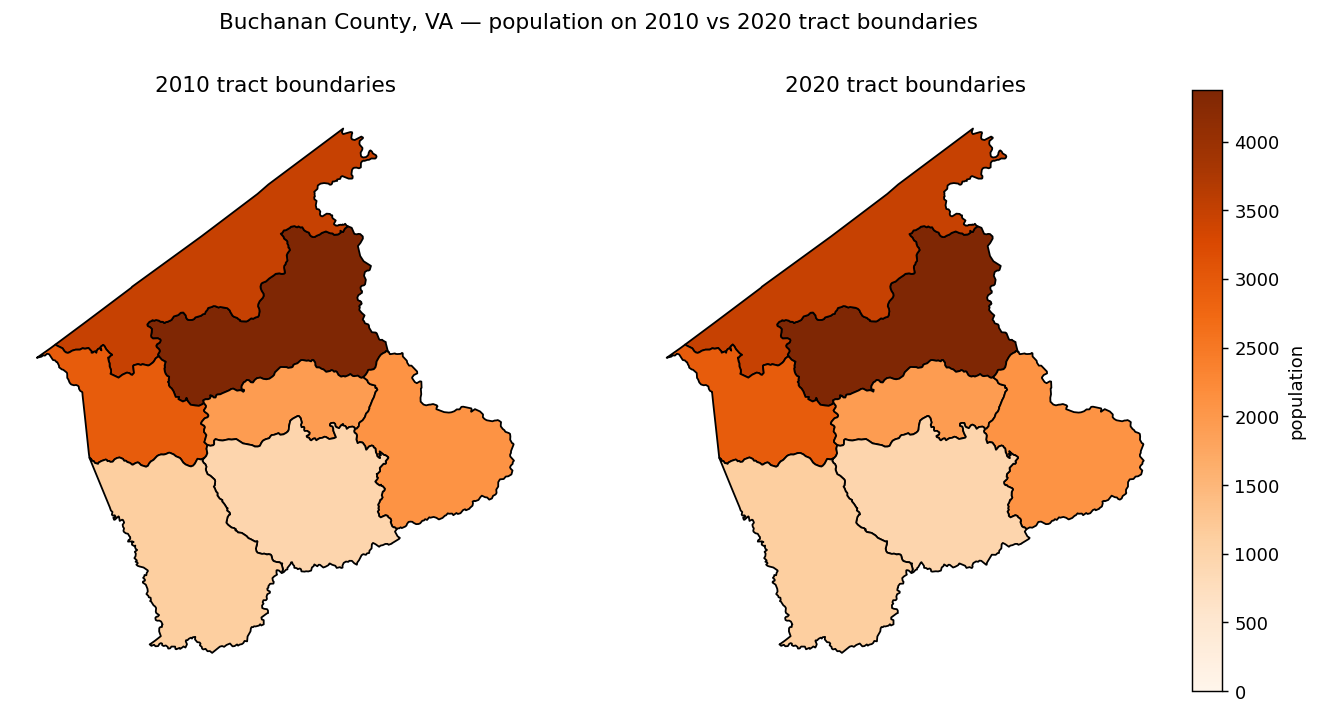
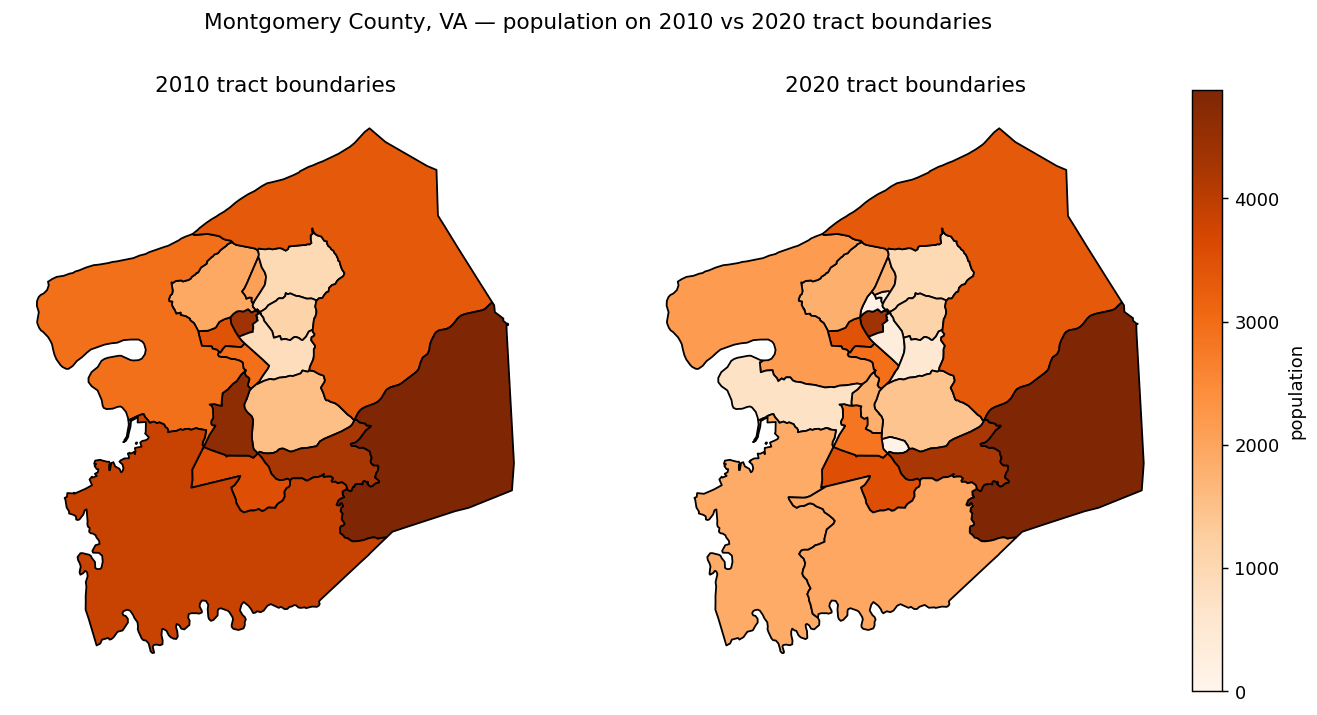
docs(census10to20): redo boundary-change map on Montgomery County (changed tracts) + fixed convert

diff --git a/docsite/packages/sdc-census10to20/articles/figures/census10to20_map.py b/docsite/packages/sdc-census10to20/articles/figures/census10to20_map.py
@@ -42,7 +42,7 @@ b.plot(ax=ax[1], column="pop", cmap="Oranges", norm=norm, edgecolor="black",
 ax[1].set_title("2020 tract boundaries"); ax[1].axis("off")
 sm = mpl.cm.ScalarMappable(cmap="Oranges", norm=norm); sm.set_array([])
 fig.colorbar(sm, ax=ax, fraction=0.025, pad=0.02, label="population")
-fig.suptitle("Buchanan County, VA — population on 2010 vs 2020 tract boundaries", y=0.98)
+fig.suptitle("Montgomery County, VA — population on 2010 vs 2020 tract boundaries", y=0.98)
 fig.savefig(img, dpi=130, bbox_inches="tight")
 print("wrote", img)
 print("input total:", round(float(inp["value"].sum()), 1))

diff --git a/docsite/packages/sdc-census10to20/articles/introduction.md b/docsite/packages/sdc-census10to20/articles/introduction.md
@@ -93,10 +93,12 @@ print(cw)
 
 ## Visualizing a boundary change
 
-`convert_2010_to_2020_bounds` re-expresses a complete 2010-boundary dataset on
-2020 tract boundaries (area-weighted for tracts that were redrawn). Here every
-2010 tract in Buchanan County, VA gets a synthetic population, and we convert the
-whole county at once. The tract geometries ship with this page.
+`convert_2010_to_2020_bounds` redistributes a complete 2010-boundary dataset onto
+2020 tract boundaries (area-weighted for tracts that were redrawn). Montgomery
+County, VA had its tracts redrawn between 2010 and 2020 — 16 tracts became 23,
+several splitting into smaller pieces — while the county boundary stayed put. Here
+every 2010 tract gets a synthetic population, and we convert the whole county at
+once. The tract geometries ship with this page.
 
 ```python
 import geopandas as gpd
@@ -117,20 +119,22 @@ print(out.head().to_string(index=False))
 ```
 
 ```text
-2010 total: 16906.0  2020 total: 16903.4
+2010 total: 46688.0  2020 total: 46688.0
       geoid       value
-51027010400 1933.000000
-51027010700 1116.000000
-51027010100 4371.421901
-51027010200 3475.017392
-51027010300 2945.787759
+51063920104   20.237667
+51121020100 4372.473878
+51121020201 3475.000000
+51121020202 2946.373028
+51121020301  126.482992
 ```
 
-![Buchanan County population shown on 2010 tract boundaries vs 2020 tract boundaries](img/census10to20-boundary-change.png)
+![Montgomery County population shown on 2010 tract boundaries vs 2020 tract boundaries](img/census10to20-boundary-change.png)
 
-*The same population, re-expressed on the redrawn 2020 tracts. Because the whole
-county is converted together, the total is preserved (area-weighting only moves
-people between tracts whose boundaries shifted).*
+*The same 46,688 people, redistributed onto the redrawn 2020 tracts. The total is
+**preserved** — each 2010 tract's count is split among the 2020 tracts that
+replaced it in proportion to shared area, so a county's population is unchanged by
+the reprojection. (A tiny amount lands in a neighboring county where a 2010 tract
+straddled the county line — `51063920104` above.)*
 
 > `convert_2010_to_2020_bounds` downloads the Census 2010↔2020 relationship file,
 > so this example needs network access.
